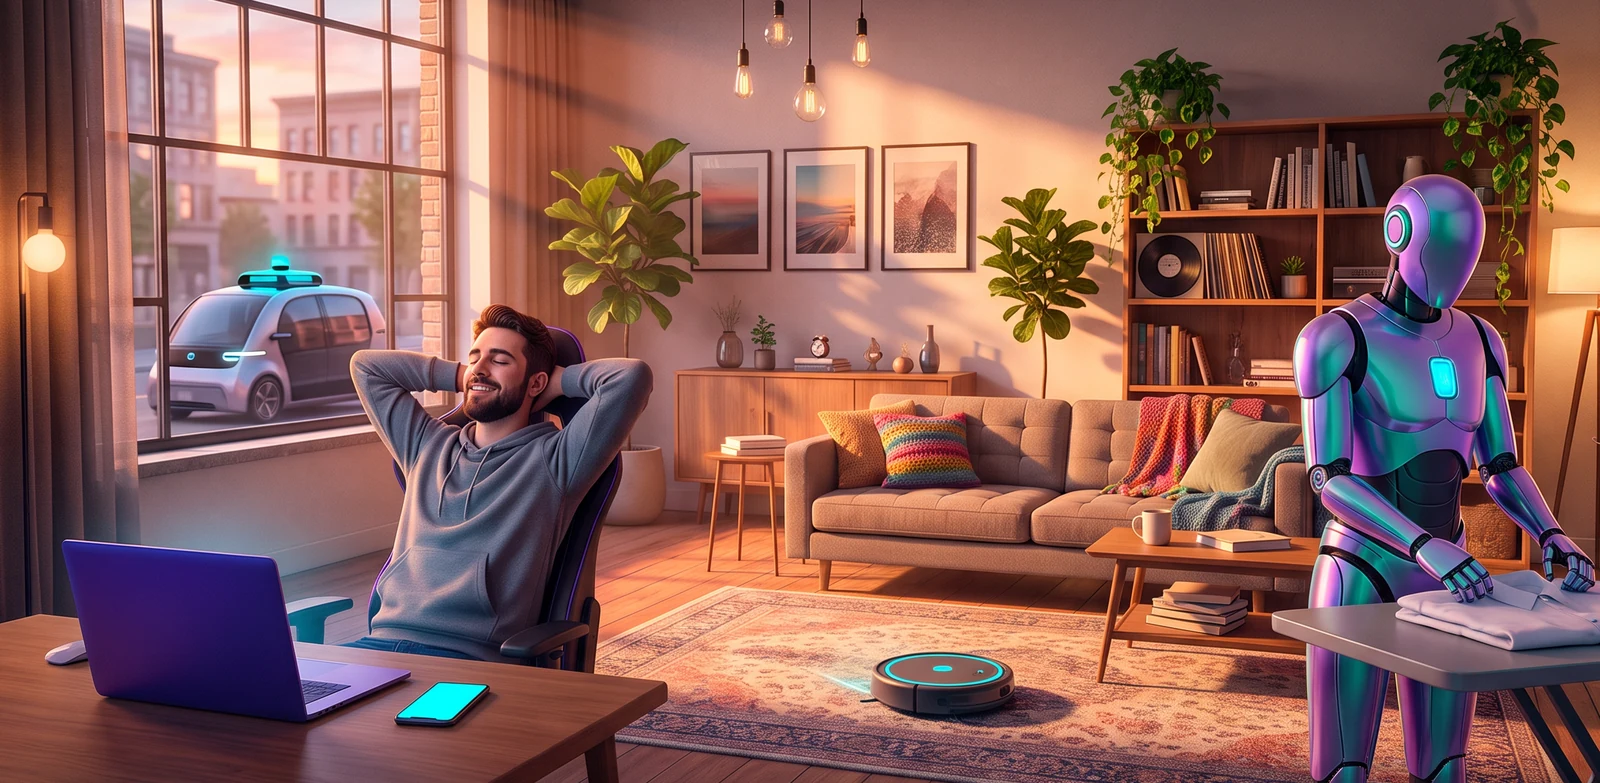
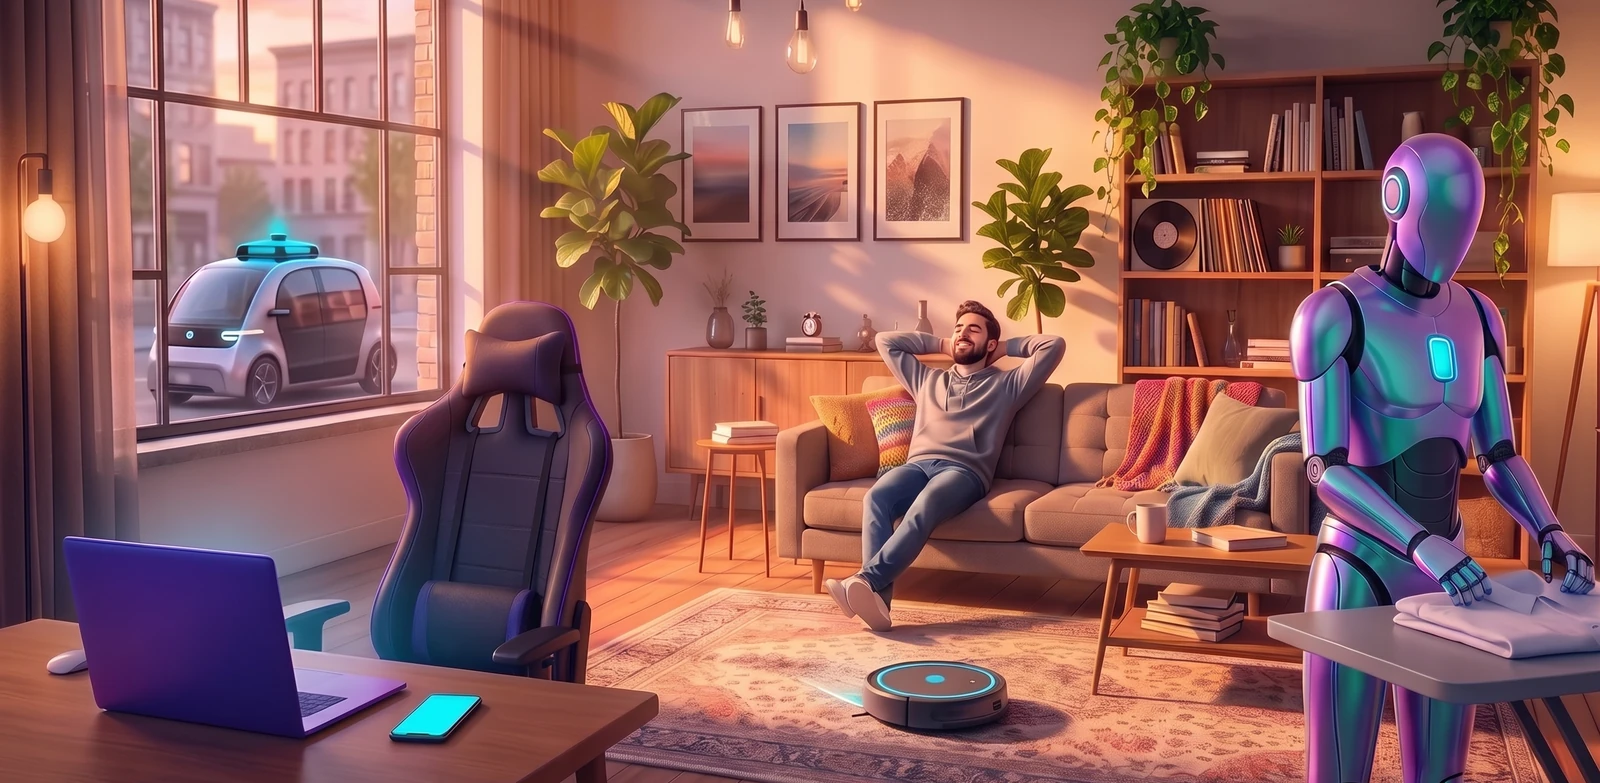
/creators: sleep scene reshot — owner on the sofa, scaled to the furniture
He was in the desk chair with his hands behind his head, beside the working
laptop, which reads as taking a break at work rather than being off duty —
the opposite of what the heading under the picture claims. Now on the sofa,
same pose, same face and clothes; the chair is still there and empty, which
does the work of saying he left it.

Second pass fixed his scale (Appy: "guy feels like a dwarf, we made its body
too small"). The first sofa frame put his head BELOW the top of the backrest
and gave him legs too short for the seat depth, which reads as a child no
matter how adult the face is. Specified as landmarks rather than as "bigger":
head above the backrest, shoulders one cushion wide, feet out onto the rug.

Both passes were generated as edits of the previous frame, so the room, the
golden-hour light and all five machines carried over rather than being
re-invented.

CROP OFFSET IS NOW FITTED, NOT CONSTANT. The scale pass moved the camera down
as well as scaling him, which pushed the foreground phone to 97% of the frame
— nearly clipped by the offset the previous frame used. The offset is chosen
per generation by minimising device-position drift against the live frame
(120px top here, 70px before). Also checked for the baked-in blurred border
that cost a crop last time: border edge energy 1.7-5.7 against an interior
4.2, so there is none.

Badges: moved by MEASURED DELTA, never re-derived. These coords carry two
[…]

diff --git a/src/components/creators/HomeBelow.tsx b/src/components/creators/HomeBelow.tsx
@@ -60,12 +60,21 @@ function ArrowIcon() {
 /** x/y are percentages of the frame (from the scan); dx/dy are optional pixel nudges on top. The
     type is explicit so the nudges stay available with none of them set — inferred from the literals
     alone, the array would have no dx/dy at all and adding one would be a type error. */
+// HAND-TUNED, THEN MOVED BY MEASURED DELTA — never re-derived from scratch. These five were placed
+// by eye over two rounds of Appy's own nudges (4px to 80px), so a regeneration must not discard
+// them: every device is re-detected in the new frame by colour blob + connected component, matched
+// against the same detection on the old frame, and only the DIFFERENCE is added to the tuned value.
+// That keeps his placement relative to the object and corrects only what actually moved.
+// Across the 2026-08-21 sofa + scale regenerations: robotaxi, laptop and phone all landed within
+// 1% (under 5px at the rendered size) and were left alone as measurement noise. Two moved for real,
+// because the second pass drew the man bigger and pulled the camera with him — the robot came
+// closer, so its head sits 5.6% higher, and the vacuum shifted 2.7% left.
 const SCENE_TASKS: { t: string; x: number; y: number; dx?: number; dy?: number }[] = [
   { t: 'Airport run', x: 17.4, y: 27 },
-  { t: 'Folding laundry', x: 74, y: 19, dx: 80 },
+  { t: 'Folding laundry', x: 74, y: 13.4, dx: 80 },
   { t: 'Running a campaign', x: 10.3, y: 64 },
   { t: 'On a job', x: 27.5, y: 83 },
-  { t: 'Cleaning', x: 58.8, y: 79 },
+  { t: 'Cleaning', x: 56.1, y: 79 },
 ]
 
 // Plain strings, and step 04 reads like the other three (Appy, 2026-08-20). It briefly carried the
@@ -106,13 +115,29 @@ export default function HomeBelow({ onCta }: { onCta?: () => void }) {
             single frame with the owner idle and every machine working around him says it in one
             look and needs no time to do it.
             CHILLING, NOT SLEEPING, AT GOLDEN HOUR (Appy, 2026-08-21): the frame was regenerated so
-            the owner is leaning back in a gaming chair with his hands behind his head, and the room
+            the owner is leaning back with his hands behind his head, and the room
             is evening rather than night. Evening rather than daylight on purpose — the devices are
             read by their cyan and violet glow, and full daylight washes that out.
             AND FURNISHED, on a second pass the same day (Appy: "the house in the background feels
             like a non-furnished house"). The first evening frame had a bare wall and an empty floor,
             which read as a viewing rather than a home — the whole point of the picture is that this
             is someone's living room and the machines are working in it.
+            ON THE SOFA, NOT THE DESK CHAIR (Appy, 2026-08-21: "will make more sense right?" - yes).
+            Hands behind his head IN A DESK CHAIR, beside the working laptop, reads as taking a
+            break at work: he is still at the desk. On the sofa he is off duty, which is what the
+            heading underneath actually claims. Regenerated as an edit of the previous frame rather
+            than from scratch, so the room, light and every machine carried over; the chair is still
+            there and empty, which does the work of saying he left it.
+            AND SCALED TO THE FURNITURE, one pass later (Appy: "guy feels like a dwarf here, we made
+            its body too small"). The first sofa frame sat his head BELOW the top of the backrest and
+            gave him legs too short for the seat depth, which is exactly how a figure reads as a
+            child no matter how adult the face is. The fix was stated as landmarks rather than as
+            "bigger": head above the backrest, shoulders one cushion wide, feet out onto the rug.
+            THE CROP HAD TO BE REFITTED FOR IT. That pass moved the camera down as well as scaling
+            him, which pushed the foreground phone to 97% of the frame — nearly clipped. The crop
+            offset is not a constant: it is fitted per generation by minimising the device positions'
+            drift against the live frame (top 120px here, 70px before), which is also what keeps the
+            badges above honest.
             LANDSCAPE, NOT SQUARE, and framed with margin (Appy, 2026-08-20). A square crop of a
             room forces the camera in close, which is what put the robot's head and the laptop
             against the edges; 16:9 lets the shot pull back far enough to hold every object whole
@@ -121,7 +146,7 @@ export default function HomeBelow({ onCta }: { onCta?: () => void }) {
           {/* eslint-disable-next-line @next/next/no-img-element */}
           <img
             src="/creators/sleep-scene.webp"
-            alt="A man leaning back in a gaming chair with his hands behind his head while a laptop, a phone, a humanoid robot, a robot vacuum and a robotaxi outside all keep working"
+            alt="A man leaning back on a sofa with his hands behind his head while a laptop, a phone, a humanoid robot, a robot vacuum and a robotaxi outside all keep working"
             loading="lazy"
             width={1600}
             height={783}
